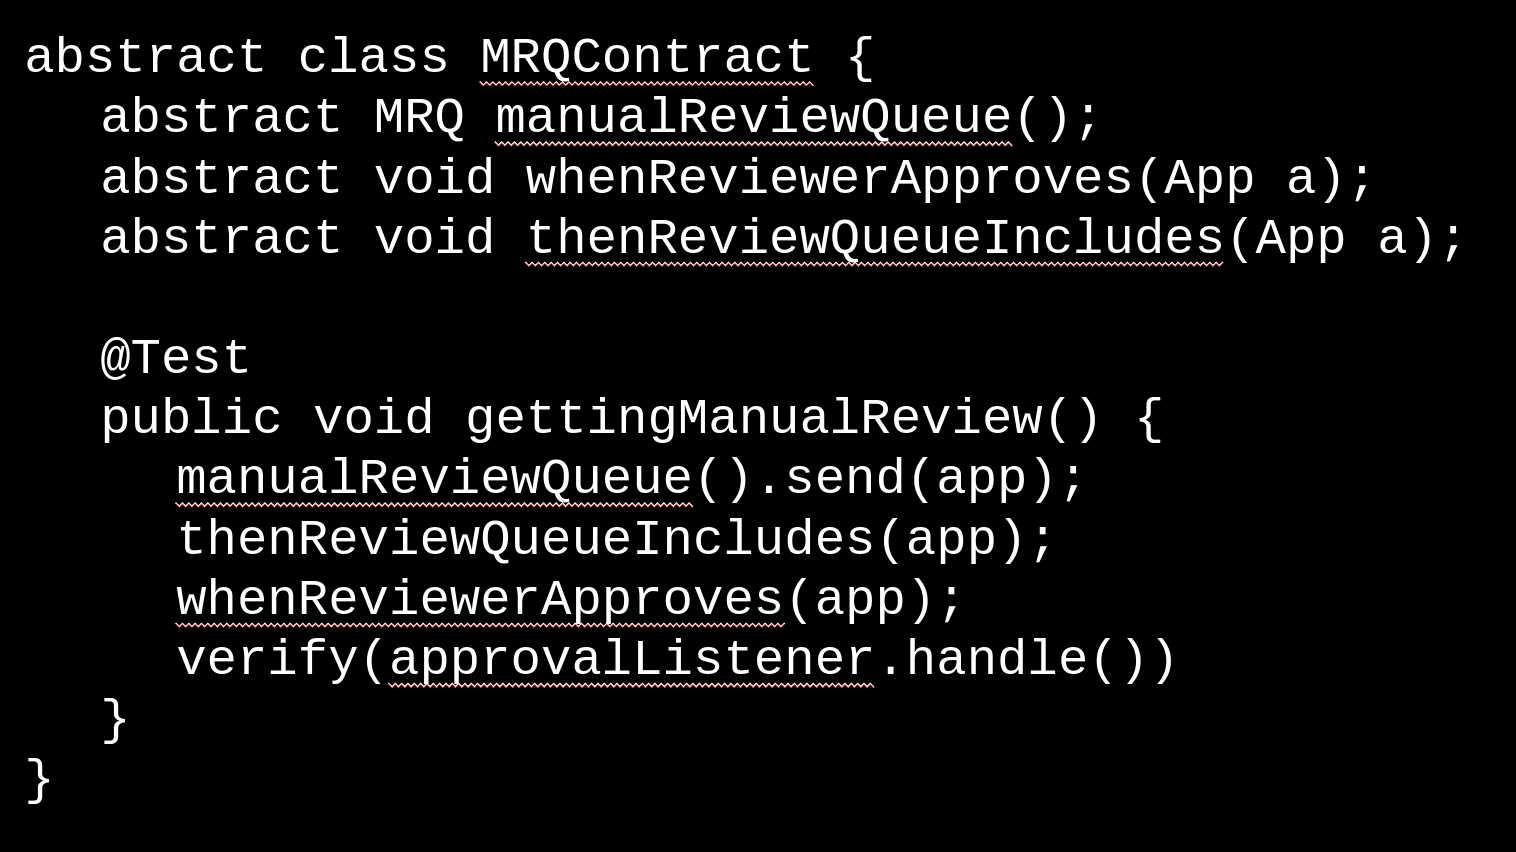
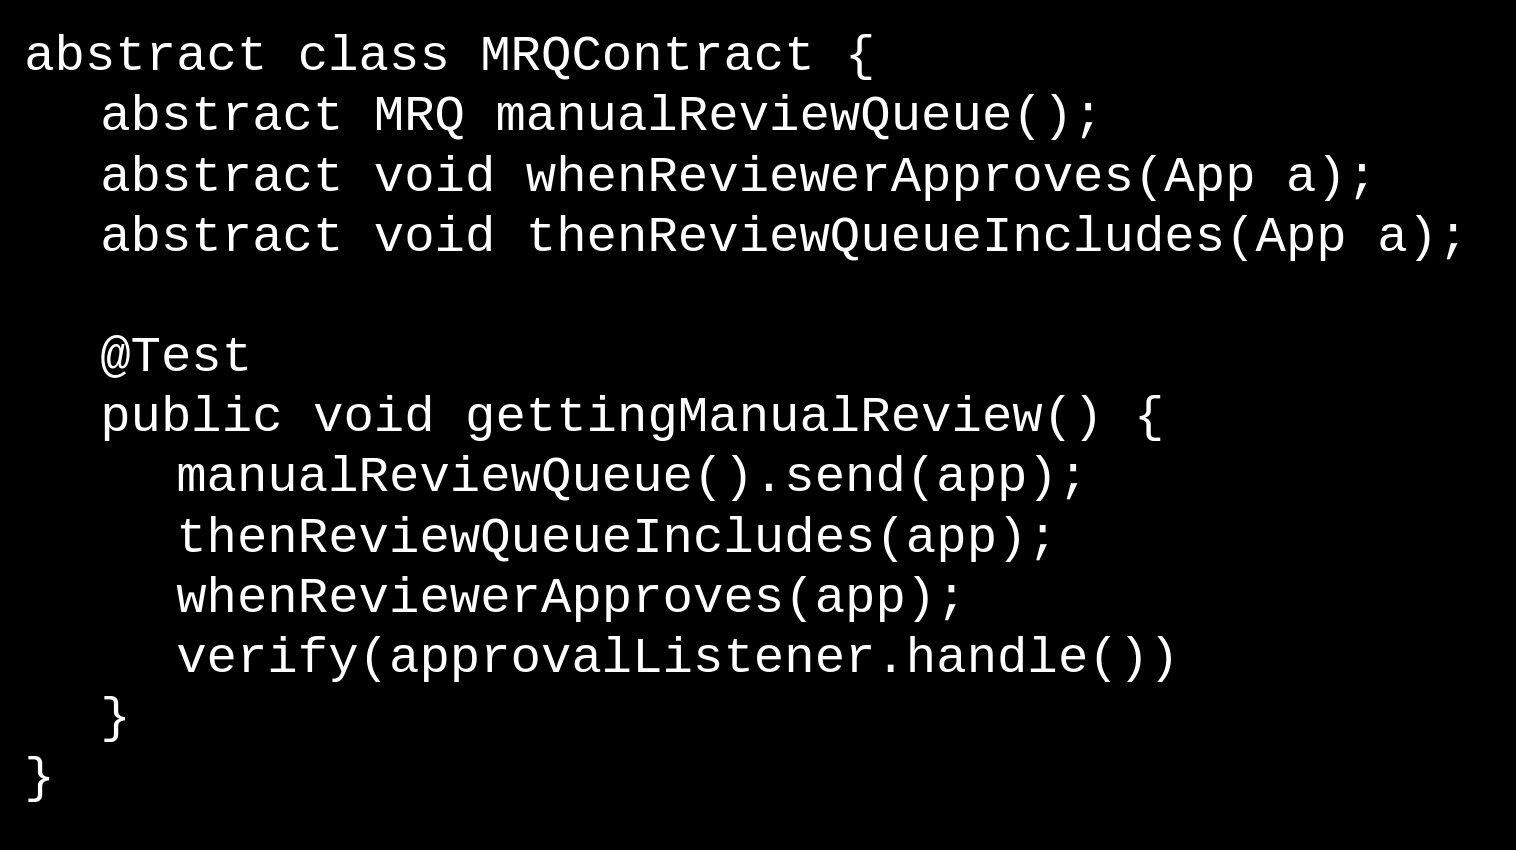
fix screenshots with spelling highlights

diff --git a/src/slideOrder.jsx b/src/slideOrder.jsx
@@ -156,6 +156,7 @@ const slides = [
   <ApiTestDrive index={2}/>,
   <GraphicSlide>example-test-1.png</GraphicSlide>,
   <GraphicSlide>example-test-2.png</GraphicSlide>,
+  <GraphicSlide>example-test-3.png</GraphicSlide>,
   <GraphicSlide>service-6.png</GraphicSlide>,
   <GraphicSlide>service-7.png</GraphicSlide>,
   <TableOfContents current={6}/>,

diff --git a/src/App.js b/src/App.js
@@ -12,7 +12,7 @@ const DOWN = 40
 class App extends Component {
   constructor(props) {
     super(props)
-    this.state = { index: 123 }
+    this.state = { index: 0 }
   }
 
   componentDidMount() {
